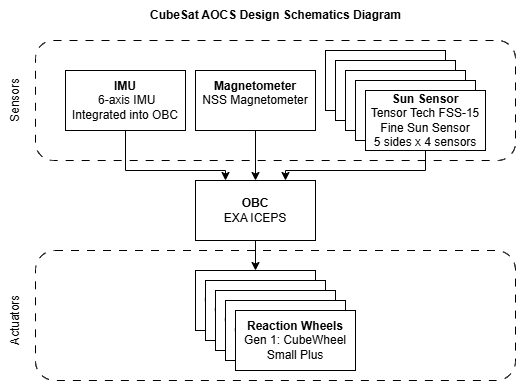
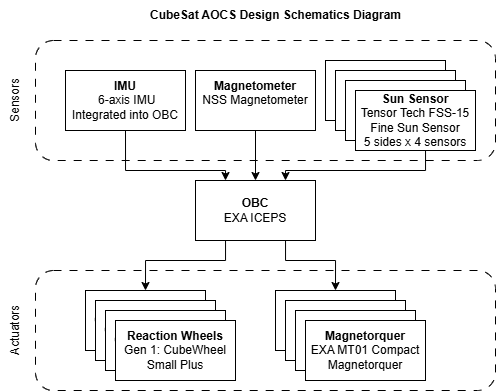
Updates from Overleaf

diff --git a/Doc/Text/3.tex b/Doc/Text/3.tex
@@ -5,19 +5,86 @@
 \begin{itemize}
     \item[-] \textbf{Make a schematics diagram (such as the one found on slide 61 of “9-10.pdf”) of the AOCS control system with the (real) elements found here. } 
 
-    text
+    \begin{figure}[h]
+        \centering
+        \includegraphics[width=0.8\linewidth]{Doc/Graphics/AOCS hardware diagram.png}
+        \caption{CubeSat AOCS Design Schematics Diagrame made with draw.io}
+        \label{fig:enter-label}
+    \end{figure}
 
+    \vfill
+    
+    \begin{table}[h]
+        \centering
+        \begin{tabular}{|l|c|c|c|c|}
+        \hline
+        \textbf{Position}&\textbf{Part Name}&  \textbf{Unit Price}&  \textbf{Amount}&  \textbf{Total Price}\\
+        \hline \hline
+        OBC / IMU&EXA ICEPS&  20 500€&  1&  20 500€\\ 
+        Magnetometer&NSS Magnetometer&  15 000€&  1&  15 000€\\ 
+        Sun Sensor&Tensor tech fine Sun Sensor& 1 800€& 4x4& 28 800€\\
+        Reaction Wheels&CubeWheel small +& 6550€& 4& 26 200€\\
+        Magnetorquers& EXA MT01 Compact Magnetorquer& 1200€& 4& 4 800€\\
+
+        \hline
+        & & & &\textbf{95 300€}\\ \hline
+        \end{tabular}
+        \caption{Cost estimation for CubeSat AOCS design}
+        \label{tab:my_label}
+    \end{table}
+
+
+    \newpage
     \item[-] \textbf{Explain why you chose each element and how many of each are needed. }
 
     Since we are conducting a CubeSat mission which is being released from the ISS we can make a few assumptions about the requirements that will drive the design of the AOCS system.
+
+    \textbf{Assumptions}
     \begin{itemize}
-        \item \textit{CubeSat size:} Since the ISS CubeSat deployers (J-SSOD and NRCSD) seem to accomodate up to 6U \cite{deployers_wiki} cubesats and most recent CubeSats deployed from the ISS have been up to 3U we will assume 3U as a reasonable size and design driver for the mission.
+        \item \textit{CubeSat size:} Since the ISS CubeSat deployers (J-SSOD and NRCSD) seem to accomodate up to 6U \cite{deployers_wiki} cubesats and most recent CubeSats deployed from the ISS \cite{nanosats_database} have been up to 3U we will assume 3U as a reasonable size and design driver for the mission.
         This size limitation of 30cm x 30cm x 30cm for the CubeSat wall designs will dictate the size and amount of systems the satellite can accomodate
 
         \item Assuming the CubeSat is used for Earth-related observations or measurements, we will leave the Nadir face empty of AOCS systems to leave space for the payload.
         Thus, an earth sensor is out of question for attitude sensing.
 
-        \item 
+        \item We also assume that we do not need to leave any budget margins or save any money to accommodate for possible cost overruns for the other satellite systems and as such can freely use the full 100 k€ budget.
+    \end{itemize}
+
+    \vspace{1cm}
+    Based on these assumptions, we design the AOCS according to the needs of such a system and an ample amount of redundancy.
+    
+    \textbf{Needs:}
+    \begin{itemize}
+        \item \textbf{Attitude Sensors:}
+        The AOCS needs both an internal and an external attitude sensor: one internal sensor for the CubeSat actuators to base their control algorithm on and an external sensor as a reference system. 
+        I chose the \textit{EXA ICEPS Onboard Computer} as it contains a 6-axis Internal Measurement Unit.
+        
+        For the external sensor, I chose the \textit{NSS Magnetometer}. 
+        This provides quite accurate external attitude measurements based on the Earth's magnetic field and it would be mounted on the outside of the CubeSat, however not on a Boom as it is optimised for, since it will work in complement with other sensors.
+        
+        To complement this sensor, I also added 4 \textit{Tensor Tech fine Sun Sensor} on the sun side of the CubeSat and three other sides (not the nadir side) to be mounted on the outside.
+
+        \item \textbf{Attitude Actuators:}
+        Since we might be dealing with an up to 6U CubeSat, I wanted to include a robust and fine actuation system to also comply with the pointing requirement of $0.5^{\circ}$. 
+        For this purpose, I deemed reaction wheels the best choice. 
+        I chose the 2nd smallest of the CubeWheel family, the \textit{CubeWheel Small +}. 
+        The minimum requirement would be three of these and I chose 4 for redundancy.
+        When using reaction wheels, it is also good practice to add external actuators to offload the wheels and thus enable a longer mission lifetime.
+
+        I also added 4 \textit{EXA MT01 Compact Magnetorquers} as an external actuation method to complement the reaction wheels.
+
+        \item \textbf{Redundancy:}
+        Redundancy is present both in the amount of components chosen and the numbers of sensing methods and actuation.
+        The OBC/IMU has 6 axis internal attitude sensing, providing at least one form of redundancy per axis. 
+        The magnetometer provides no redundancy but serves as the main external attitude sensor and is proficiently radiation protected.
+        
+        The sun sensors provide an additional external attitude sensing method with plenty of redundancy with 1 extra sun sensor per side (minimum of three) and one redundant side mounted with the sensors.
+
+        The reaction wheels include one additional wheel for redundancy (minimum of three) and external actuation methods with the magnetorquers to offload the reaction wheels. 
+        The magnetorquers also include one redundant component (minimum of three)
+
+        \item \textbf{Accuracy:}
+        Given the chosen components and their accuracies, redundancies and error rates the pointing requirement of $0.5^{\circ}$ will be obtained.
     \end{itemize}
     
 \end{itemize}

diff --git a/Doc/Text/4.tex b/Doc/Text/4.tex
@@ -3,10 +3,26 @@
 \begin{itemize}
     \item[-] \textbf{Draw the (detailed) control loop of the proposed control system, and precise which data you will pass at the interfaces between the boxes representing the control system. }
 
-    text
+    \begin{figure}[h]
+        \centering
+        \includegraphics[width=\linewidth]{Doc/Graphics/AOCS control loop.png}
+        \caption{AOCS control loop with data passing indicated in blue }
+        \label{fig:enter-label}
+    \end{figure}
     
     \item[-] \textbf{What is the data that you need to compute on-board and what is the data that you need to give to the satellite from the ground? }
 
-    text
+    \textbf{On-Board Data:}
+    Since no information was given on what the CubeSat would point to (and measure) I have to assume that pointing needs to be possible at any stage in the orbit. 
+    As such, the CubeSat shall be able to operate semi-independently of ground control, as having ground stations available for continuous CubeSat monitoring and command can be tedious and costly. 
+    Any changes to the CubeSat modes would thus be made only when the CubeSat would be in range to the main Ground Station and the precise attitude of the CubeSat would need to be calculated on-board based off the two external sensor readings. 
+    Also the control for the actuation would need to be computed onboard based on the data from the internal attitude measurements.
+
+    
+    \textbf{Ground Data:}
+    From the ground we would at least need to give the TT\&C commands to change the CubeSat to pointing mode and possibly to a correction mode for offloading the reaction wheels with the magnetorquers. 
+    The Earth Magnetic Field model should also be updated regularly to the CubeSat from ground in addition to any corrections to the satellite's attitude as compared to the perceived attitude from Earth.
+
+    The desired attitude, as a LOF vector and durations for pointing would also need to be updated from the ground.
     
 \end{itemize}

diff --git a/Doc/Text/Preface.tex b/Doc/Text/Preface.tex
@@ -5,7 +5,10 @@ This report is a submission for the \textit{M2TSI - M11 Orbital Mechanics II} co
 %\ac{UPS} during the autumn semester of 2024.
 The submission is for the \textit{SATELLITE AOCS – HOMEWORK \#2} assignment as part of the graded assignments for this course.
 
-\textcolor{red}{TODO: something about source code etc?}
+The documentation for this file is uploaded per e-mail to the course lecturer, Cloé Alcaria, and the further source files and code can be found uploaded to my GitHub at:
+\url{https://github.com/benjaminakerlund/M11-Orbital-Mechanics-Assignment-2}.
+
+
 
 
 
